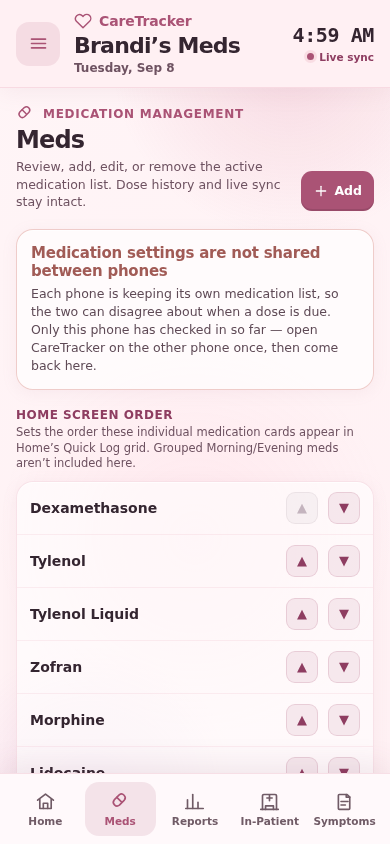
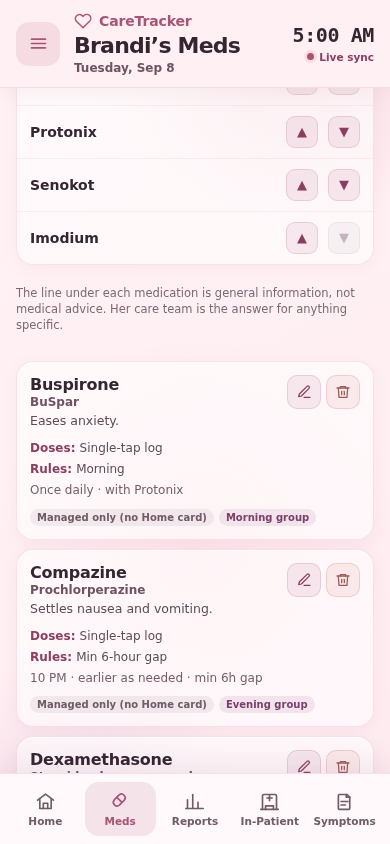
v74 release notes
Claude-Session: https://claude.ai/code/session_01YLK2mDPJLJLCZfexLETuMn

diff --git a/README.md b/README.md
@@ -499,6 +499,7 @@ changes every release is a copy that is wrong most of the time; read `sw.js` for
 
 ## Version History
 
+| v74 | Sep 8, 2026 | **Every medication now says what it is for.** Aaron, 2026-09-08: *"I've asked before to have something pulled from another site to say what the med is intended for... it wasn't webMD, it was something else that couldn't sue me for using their stuff."* **He was right that it never shipped, and the ask was not written down in ANY of the three repos** — not in care-tracker's records, not in ChemoWell's `REQUESTS.md` or `BACKLOG.md`, which have existed since app-v25. It was dropped, not deprioritised, and both apps' request files now carry it. **On the source, because that was his actual worry:** what cannot be copied is somebody's PROSE — the fact that ondansetron prevents nausea is not ownable. So this ships **short original sentences** written for a caregiver; nothing is copied from WebMD, from a drug label or from any site, and the app **cites nothing**, because a citation to a document nobody here read would be a lie. US federal sources (openFDA, DailyMed, MedlinePlus) are public domain and would have been safe to quote — every one of them is blocked by this sandbox's network policy, which is why the text is original rather than quoted, and a later refresh to exact federal wording is a data change into the same table rather than a rebuild. **`MED_PURPOSE` is keyed by medication id, NOT added to `DEFAULT_MEDS`** — every phone already has its medication list saved from before v74 and those records carry no new field, so a lookup by id gives every existing device the text on the next load with no migration and nothing to re-enter. `purposeOf()` prefers what the caregiver typed, falls back to the built-in line, and otherwise renders **nothing** rather than an empty label. **"What it's for" is a real field in the medication editor**, so anything added later carries its own line. **A defect caught before it existed in a build:** `medicationFormFrom()` seeds the editor and did not carry the new field, so opening any medication's editor and saving would have written an empty string over it — the v43.3 failure exactly, where correcting one field in this same editor silently disabled that medication's missed-dose alerts while the app said *updated*. The form is seeded with `purposeOf()`, so the box shows what the screen shows. **Deliberately not done:** nothing was added to the Home quick-log cards — that is the screen she taps at 2am, and every extra line there sits between her and the dose button; the suite ASSERTS Home stays clean rather than quietly skipping it. Nothing is fetched at runtime: a live lookup would send this patient's medication list to a third-party server from an app with no login, and would fail exactly when she is offline. **New gate `harness/med-purpose-test.mjs` 18/18, and 13/18 against v73.** Its central check is that **no line contains a number** — the app is now stating medical information and the one thing it must never drift into is a dose or a schedule — plus the edit-cannot-wipe case and the Home exemption. Two of its own selectors were wrong first time and the app was right: the field labels are uppercased by CSS so a case-sensitive match missed a field that was present, and the Meds screen's control reads **Add**, not *Add medication*. Reproducible from v73 + `harness/med-purpose-patch.py`. `APP_VERSION` → `v74`, CACHE → `caretracker-v74`. Rollback bundle for v73 in `outputs/rollback-v73/`. |
 | v73 | Sep 8, 2026 | **Removing a corrected weight or paracentesis no longer brings the wrong number back.** Both v72 auditors named this and neither could block on it, because it is older than v72 — it dates from v67/v69. **The defect:** Home's journal and History render raw documents, so on a CORRECTED reading the row standing there is the correction, and its Remove called `removeEntry(e.id)` — a hard delete of that one document. **Inside 48 hours the rules allow that delete, so it succeeded**, and the group fell back to the document it superseded: she removes a reading and the mistyped one returns, on the screen a clinician reads a trend off. Past 48 hours the same tap was refused and did nothing. Reproduced from the app's own bytes: `remove-group-test` seeds a 156.2 lb weigh-in corrected to 142.0 **today** — deliberately inside the window, because every other suite here seeds records past it, and the one window where a delete WORKS is the one where it does damage — removes the correction from History, and on v72 the Weight report comes back reading *156.2 lbs*. **Fixed** by routing weight and paracentesis rows to the tombstone functions the report screens already use (`removeWeightReading` / `removeParacentesis`, append-only since v69/v52), so both paths now mean the same thing; a group not in the resolved set (an unusable value the resolver skips) falls through to the old delete so the button can never become a silent no-op. `removeBtn` also hides on a superseded weight — v72 added `weightSuperseded` to History's chip but not to the button, leaving a Remove on a row nothing reads. **And a second defect the new suite found while proving the first, pre-existing since v52:** `removeParacentesis` stamped its tombstone with a bare `Date.now()` where the weight equivalent uses `Math.max(Date.now(), previous + 1)`. Whenever the record being removed carried a stamp at or ahead of this phone's clock — two caregiver phones minutes apart — **the tombstone lost the tie and the procedure stayed on screen while the toast said "Paracentesis removed"**. Same guard now. **`harness/remove-group-test.mjs` 20/20, and 10/20 against v72** — the ten reds are exactly the resurrection, the phantom Remove and the delete attempts. It also asserts the ORDINARY path still deletes a plain dose, because the way a narrow fix usually breaks something is by swallowing the normal case. **The Zero Day Audit BLOCKED the first build, on the verification rather than the code:** the new suite froze the app clock at 15:00 and derived the corrected paracentesis's stamp from it, so a build with the bare `Date.now()` stamp still in place **passed 20/20 after about noon** — the project's oldest failure class, a check that cannot fail, and the builder's own falsification against v72 could not have exposed it because on v72 that section fails for an unrelated reason. The seed now clears BOTH clocks (`Math.max(NOW, Date.now()) + 6h`), the tombstone's stamp is asserted directly rather than only through its effect on a screen, and the guard is proved hour-independent by running the reverted build at four shifted clocks: **19/21 red at +0h, +6h, +13h and +21h**, with v73 green at all four. The weight stamp guard, unfalsified until the audit said so, is red the same way (20/21). **Copy, from the auditor's Voice pass:** the note promised removal *"always takes effect now"* — untrue offline — and did not prepare her for History keeping the row; both corrected. **A second audit pass then found the rewrite had lost a word the first draft had right:** *"Remove also works on older readings"* is true of a weight, which bypasses the 48-hour hide, and **false of a paracentesis, which does not** — the button is not there to fail. Corrected to *"older weights"*, and *"the number you had fixed"* — ambiguous, since what came back was the number she REPLACED — to *"the wrong number you had replaced"*. That pass also re-proved the seed repair at nine clock shifts including two crossing midnight backwards (shipped 21/21 at every one; para mutant 19/21 at every one; weight mutant 20/21), and confirmed by grep that `loggedAt` is only ever an ordering key in this app, never a date — so a correction stamped six hours ahead cannot land on the wrong day and quietly change what the other checks mean. Reproducible from v72 + `harness/remove-tombstone-patch.py`. `APP_VERSION` → `v73`, CACHE → `caretracker-v73`. Rollback bundle for v72 in `outputs/rollback-v72/`. |
 | v72 | Sep 7, 2026 | **A changed answer now stays changed — bowel, appetite and symptom corrections append instead of delete.** Aaron, 2026-09-07: *"do all"* — v72 first on the standing queue, from Enhancer pass 03. **The defect, the fifth instance of the one root cause:** `submitBowelMovement`, the Bowel Issue Active banner's Update, `submitAppetite` and the symptom edit all did `removeEntryDB` **then** append. The Firestore rules refuse a delete by document age, the banner targets whichever day drives the streak — routinely three days old — and the Symptoms tab offers Edit at any age. So on the phone the update **failed with a toast blaming her connection** and the old answer stayed; and wherever two documents for one day did exist (two devices answering the same evening), both carried that day's noon as `ts` and the reader broke the tie with `>=`, so the winner was whichever Firestore returned last. `removeSymptom()` was dead code; the tab's Remove went through History's generic delete, refused past 48h with the button still on screen. **Fixed on the model this app already ships four times over** (paracentesis v52, appointments, weight v69, cycle v70): a bowel or appetite answer is grouped by **day**, a symptom by `symptomId` falling back to its document id; the newest `loggedAt || ts` wins, ties keep the later document exactly as v71 did, `cancelled: true` is a tombstone, and every write is stamped `Math.max(Date.now(), stamp(previous) + 1)` so a clock-skewed phone cannot make the old answer keep winning. **Every legacy document has no `loggedAt` and is untouched until corrected.** The Remove button routes these three types to their tombstones (`removeEntryFor`) and hides on a row that no longer stands; a delete of the newest document of a corrected group would otherwise resurrect the one it replaced. **Rows raw, numbers resolved** (v69's lesson): History and the CSV keep every document, marked *Superseded* or *Removed*; the printable oncologist report's symptom table reads the resolved set; and the History day summary **no longer counts a bowel answer, an appetite answer or a symptom note as a dose** — it did. **The Zero Day Audit BLOCKED the first build** — Home's Today journal still listed raw documents, so after removing today's answer she would have seen the end-of-day card asking again beside the old answer, unlabelled and with no Remove, plus the tombstone; v71 deleted those within 48 hours, so on the screen she uses most it was a visible regression. Fixed by reading the journal resolved, the same line as History's count (`harness/audit-v72-probe.mjs`, the auditor's own probe: 16/19 on the blocked build, 19/19 after; it runs in `run-all.sh` from now on). **The delta audit BLOCKED once more, narrower:** the journal fix hid a paracentesis tombstone while nothing hid the procedure it removed, so a paracentesis removed today read as standing on Home — a `paraSuperseded` helper, mirrored from the weight one and missing since v52, now hides it in the journal, the Remove button, History's chip and the CSV label; the auditor's probe 27/28 → 28/28. **`pm.py` gained the delete ratchet:** every shape of `removeEntryDB(...)` call is pinned; a new one blocks the release; the four correction shapes v72 retired are gone from the list, so it now sits at zero. Falsified three ways before v72 was built. **New gate `harness/daily-supersede-test.mjs` 37/37** — the stub refuses deletes past 48h as the rules do and records every attempt; **9/37 on v71**, **32/37 on a mutant whose stamp guard is a bare `Date.now()`** (the future-stamped seed is what makes that mutant fail). **The scanner had never opened History, Bowel Movement or Appetite** — exactly the three screens this release changes — because they had no per-row hooks; they have them now and it walks all three: `overflow-scan` **140/140 CLEAN**. **`harness/run-all.sh`** runs every suite and writes `outputs/SUITES-v72.md` (29 suites PASS including the auditor's probe, 4 v43/v44-era patch verifiers EXEMPT with written reasons, 0 failing); `pm.py` blocks a release whose index.html changed without that record or with a FAIL/ERROR row not marked EXEMPT with a written reason. Enhancer pass 04 (`outputs/ENHANCER-PASS-04.md`) corrected pass 03 — both report screens DO carry a per-row Remove, which now tombstones — and proposes Change-answer and Log-for-another-day on both reports (S each) and routing History's Remove on corrected weight and period rows to their tombstones (S). **Exempt, said out loud:** legacy same-day duplicates written before v72 still tie as they did; iPhone rendering cannot be reproduced here (Chromium only). Reproducible from v71 + `harness/daily-supersede-patch.py`. `APP_VERSION` → `v72`, CACHE → `caretracker-v72`. Rollback bundle for v71 in `outputs/rollback-v71/`. |
 | v71 | Sep 7, 2026 | **The page no longer scrolls around behind an open menu or pop-up.** Aaron: *"when there is a toast pop up or with the 3 elipsies, you can still scroll and see the background moving when trying to scroll. why haven't this been caught."* **Five full-screen overlays** — the menu drawer, the date/time dialog, the What's New notice, the appointment sheet, the missed-dose reason sheet — **and not one of them held the page still.** Measured before and after on the same seed and the same drag: v70 went from a scroll offset of 600 to **1300** with the menu open; v71 does not move. Four of those five sit on a blurred scrim, so what a caregiver actually sees is the smear behind the blur sliding, which reads as the app coming apart. **The fix is `position: fixed` on the body at its current offset, not `overflow: hidden`** — on iOS Safari `overflow: hidden` does not stop a touch drag, which is precisely the bug. **The scroll position is restored on close**, because a lock that forgets it drops her at the top of a long History screen — a worse bug than the one being fixed. **The toast is deliberately exempt and asserted to be so:** it is not a modal, it says "logged at 6:04 PM" and goes away, and freezing the page after every dose would be its own defect. The tour is exempt too — it needs the page to move. **Why nothing caught it, which is worth more than the fix:** every gate this project has asks a question about a **still frame** — does the screen fit, is the copy true, can she do the job, does the record survive, did the release mechanics happen. **Scrolling is not a still frame.** There was no case because nobody had written one. `harness/scrolllock-test.mjs` is that case, one per overlay, and it carries a **completeness check that fails if a sixth overlay is added without a lock** — the specific bug is fixed either way, the class is what keeps coming back. New `CLAUDE.md` **Rule 5.5**: a release that changes anything a finger touches ships a case for the interaction, not only for the rendered result, written for the whole class rather than the one instance reported. **One regression, and it was the suite's fault:** `para-test` fell to 15/16 because it found the dialog's Confirm button by asking for the nearest ancestor with `position: fixed` in its style attribute — which the body lock made the whole document, so it clicked the Home card's *Log* button instead. The app was right; the selector never was. The dialog now carries `data-time-modal`, and the suite passes 16/16 against **both** v70 and v71, so it is not pinned to a release. Gates: `scrolllock-test` **23/23** (red against v70, including the drag itself at `400 -> 1000`), `enhance-test` 37/37, `overflow-scan` 110/110 CLEAN, `export` 49/49, `para` 16/16, `cycle-merge-probe` 24/24, `weightreport` 11/11, `whatsnew` 30/30, `takeall` 29/29, `glass` 7/7, `repaint` 17/17 (`outputs/RENDER-v71.md`). Reproducible from v70 + `harness/scrolllock-patch.py`. `APP_VERSION` → `v71`, CACHE → `caretracker-v71`. |

diff --git a/CARETRACKER_HANDOFF.md b/CARETRACKER_HANDOFF.md
@@ -9,8 +9,8 @@
 > **Purpose:** Complete context for any AI assistant to understand, maintain, and extend the CareTracker project without prior knowledge.
 >
 > **Last updated:** September 7, 2026
-> **Current version:** v73 (removing a corrected weight or paracentesis clears it instead of restoring the
-> old number; a changed bowel, appetite or symptom answer stays changed — corrections append,
+> **Current version:** v74 (every medication says what it is for; removing a corrected weight or paracentesis
+> clears it instead of restoring the old number; a changed bowel, appetite or symptom answer stays changed — corrections append,
 > never delete; the page holds still behind an open menu or pop-up; move a period's
 > start or end at any age, guarded so a move cannot
 > swallow another period; correct or remove a weight from the Weight report — by appending a
@@ -297,6 +297,7 @@ If a device shows a blank screen or stale content:
 
 | Version | Date | Commit | Changes |
 |---|---|---|---|
+| v74 | Sep 8, 2026 | **Every medication now says what it is for.** Aaron, 2026-09-08: *"I've asked before to have something pulled from another site to say what the med is intended for... it wasn't webMD, it was something else that couldn't sue me for using their stuff."* **He was right that it never shipped, and the ask was not written down in ANY of the three repos** — not in care-tracker's records, not in ChemoWell's `REQUESTS.md` or `BACKLOG.md`, which have existed since app-v25. It was dropped, not deprioritised, and both apps' request files now carry it. **On the source, because that was his actual worry:** what cannot be copied is somebody's PROSE — the fact that ondansetron prevents nausea is not ownable. So this ships **short original sentences** written for a caregiver; nothing is copied from WebMD, from a drug label or from any site, and the app **cites nothing**, because a citation to a document nobody here read would be a lie. US federal sources (openFDA, DailyMed, MedlinePlus) are public domain and would have been safe to quote — every one of them is blocked by this sandbox's network policy, which is why the text is original rather than quoted, and a later refresh to exact federal wording is a data change into the same table rather than a rebuild. **`MED_PURPOSE` is keyed by medication id, NOT added to `DEFAULT_MEDS`** — every phone already has its medication list saved from before v74 and those records carry no new field, so a lookup by id gives every existing device the text on the next load with no migration and nothing to re-enter. `purposeOf()` prefers what the caregiver typed, falls back to the built-in line, and otherwise renders **nothing** rather than an empty label. **"What it's for" is a real field in the medication editor**, so anything added later carries its own line. **A defect caught before it existed in a build:** `medicationFormFrom()` seeds the editor and did not carry the new field, so opening any medication's editor and saving would have written an empty string over it — the v43.3 failure exactly, where correcting one field in this same editor silently disabled that medication's missed-dose alerts while the app said *updated*. The form is seeded with `purposeOf()`, so the box shows what the screen shows. **Deliberately not done:** nothing was added to the Home quick-log cards — that is the screen she taps at 2am, and every extra line there sits between her and the dose button; the suite ASSERTS Home stays clean rather than quietly skipping it. Nothing is fetched at runtime: a live lookup would send this patient's medication list to a third-party server from an app with no login, and would fail exactly when she is offline. **New gate `harness/med-purpose-test.mjs` 18/18, and 13/18 against v73.** Its central check is that **no line contains a number** — the app is now stating medical information and the one thing it must never drift into is a dose or a schedule — plus the edit-cannot-wipe case and the Home exemption. Two of its own selectors were wrong first time and the app was right: the field labels are uppercased by CSS so a case-sensitive match missed a field that was present, and the Meds screen's control reads **Add**, not *Add medication*. Reproducible from v73 + `harness/med-purpose-patch.py`. `APP_VERSION` → `v74`, CACHE → `caretracker-v74`. Rollback bundle for v73 in `outputs/rollback-v73/`. |
 | v73 | Sep 8, 2026 | **Removing a corrected weight or paracentesis no longer brings the wrong number back.** Both v72 auditors named this and neither could block on it, because it is older than v72 — it dates from v67/v69. **The defect:** Home's journal and History render raw documents, so on a CORRECTED reading the row standing there is the correction, and its Remove called `removeEntry(e.id)` — a hard delete of that one document. **Inside 48 hours the rules allow that delete, so it succeeded**, and the group fell back to the document it superseded: she removes a reading and the mistyped one returns, on the screen a clinician reads a trend off. Past 48 hours the same tap was refused and did nothing. Reproduced from the app's own bytes: `remove-group-test` seeds a 156.2 lb weigh-in corrected to 142.0 **today** — deliberately inside the window, because every other suite here seeds records past it, and the one window where a delete WORKS is the one where it does damage — removes the correction from History, and on v72 the Weight report comes back reading *156.2 lbs*. **Fixed** by routing weight and paracentesis rows to the tombstone functions the report screens already use (`removeWeightReading` / `removeParacentesis`, append-only since v69/v52), so both paths now mean the same thing; a group not in the resolved set (an unusable value the resolver skips) falls through to the old delete so the button can never become a silent no-op. `removeBtn` also hides on a superseded weight — v72 added `weightSuperseded` to History's chip but not to the button, leaving a Remove on a row nothing reads. **And a second defect the new suite found while proving the first, pre-existing since v52:** `removeParacentesis` stamped its tombstone with a bare `Date.now()` where the weight equivalent uses `Math.max(Date.now(), previous + 1)`. Whenever the record being removed carried a stamp at or ahead of this phone's clock — two caregiver phones minutes apart — **the tombstone lost the tie and the procedure stayed on screen while the toast said "Paracentesis removed"**. Same guard now. **`harness/remove-group-test.mjs` 20/20, and 10/20 against v72** — the ten reds are exactly the resurrection, the phantom Remove and the delete attempts. It also asserts the ORDINARY path still deletes a plain dose, because the way a narrow fix usually breaks something is by swallowing the normal case. **The Zero Day Audit BLOCKED the first build, on the verification rather than the code:** the new suite froze the app clock at 15:00 and derived the corrected paracentesis's stamp from it, so a build with the bare `Date.now()` stamp still in place **passed 20/20 after about noon** — the project's oldest failure class, a check that cannot fail, and the builder's own falsification against v72 could not have exposed it because on v72 that section fails for an unrelated reason. The seed now clears BOTH clocks (`Math.max(NOW, Date.now()) + 6h`), the tombstone's stamp is asserted directly rather than only through its effect on a screen, and the guard is proved hour-independent by running the reverted build at four shifted clocks: **19/21 red at +0h, +6h, +13h and +21h**, with v73 green at all four. The weight stamp guard, unfalsified until the audit said so, is red the same way (20/21). **Copy, from the auditor's Voice pass:** the note promised removal *"always takes effect now"* — untrue offline — and did not prepare her for History keeping the row; both corrected. **A second audit pass then found the rewrite had lost a word the first draft had right:** *"Remove also works on older readings"* is true of a weight, which bypasses the 48-hour hide, and **false of a paracentesis, which does not** — the button is not there to fail. Corrected to *"older weights"*, and *"the number you had fixed"* — ambiguous, since what came back was the number she REPLACED — to *"the wrong number you had replaced"*. That pass also re-proved the seed repair at nine clock shifts including two crossing midnight backwards (shipped 21/21 at every one; para mutant 19/21 at every one; weight mutant 20/21), and confirmed by grep that `loggedAt` is only ever an ordering key in this app, never a date — so a correction stamped six hours ahead cannot land on the wrong day and quietly change what the other checks mean. Reproducible from v72 + `harness/remove-tombstone-patch.py`. `APP_VERSION` → `v73`, CACHE → `caretracker-v73`. Rollback bundle for v72 in `outputs/rollback-v72/`. |
 | v72 | Sep 7, 2026 | **A changed answer now stays changed — bowel, appetite and symptom corrections append instead of delete.** Aaron, 2026-09-07: *"do all"* — v72 first on the standing queue, from Enhancer pass 03. **The defect, the fifth instance of the one root cause:** `submitBowelMovement`, the Bowel Issue Active banner's Update, `submitAppetite` and the symptom edit all did `removeEntryDB` **then** append. The Firestore rules refuse a delete by document age, the banner targets whichever day drives the streak — routinely three days old — and the Symptoms tab offers Edit at any age. So on the phone the update **failed with a toast blaming her connection** and the old answer stayed; and wherever two documents for one day did exist (two devices answering the same evening), both carried that day's noon as `ts` and the reader broke the tie with `>=`, so the winner was whichever Firestore returned last. `removeSymptom()` was dead code; the tab's Remove went through History's generic delete, refused past 48h with the button still on screen. **Fixed on the model this app already ships four times over** (paracentesis v52, appointments, weight v69, cycle v70): a bowel or appetite answer is grouped by **day**, a symptom by `symptomId` falling back to its document id; the newest `loggedAt || ts` wins, ties keep the later document exactly as v71 did, `cancelled: true` is a tombstone, and every write is stamped `Math.max(Date.now(), stamp(previous) + 1)` so a clock-skewed phone cannot make the old answer keep winning. **Every legacy document has no `loggedAt` and is untouched until corrected.** The Remove button routes these three types to their tombstones (`removeEntryFor`) and hides on a row that no longer stands; a delete of the newest document of a corrected group would otherwise resurrect the one it replaced. **Rows raw, numbers resolved** (v69's lesson): History and the CSV keep every document, marked *Superseded* or *Removed*; the printable oncologist report's symptom table reads the resolved set; and the History day summary **no longer counts a bowel answer, an appetite answer or a symptom note as a dose** — it did. **The Zero Day Audit BLOCKED the first build** — Home's Today journal still listed raw documents, so after removing today's answer she would have seen the end-of-day card asking again beside the old answer, unlabelled and with no Remove, plus the tombstone; v71 deleted those within 48 hours, so on the screen she uses most it was a visible regression. Fixed by reading the journal resolved, the same line as History's count (`harness/audit-v72-probe.mjs`, the auditor's own probe: 16/19 on the blocked build, 19/19 after; it runs in `run-all.sh` from now on). **The delta audit BLOCKED once more, narrower:** the journal fix hid a paracentesis tombstone while nothing hid the procedure it removed, so a paracentesis removed today read as standing on Home — a `paraSuperseded` helper, mirrored from the weight one and missing since v52, now hides it in the journal, the Remove button, History's chip and the CSV label; the auditor's probe 27/28 → 28/28. **`pm.py` gained the delete ratchet:** every shape of `removeEntryDB(...)` call is pinned; a new one blocks the release; the four correction shapes v72 retired are gone from the list, so it now sits at zero. Falsified three ways before v72 was built. **New gate `harness/daily-supersede-test.mjs` 37/37** — the stub refuses deletes past 48h as the rules do and records every attempt; **9/37 on v71**, **32/37 on a mutant whose stamp guard is a bare `Date.now()`** (the future-stamped seed is what makes that mutant fail). **The scanner had never opened History, Bowel Movement or Appetite** — exactly the three screens this release changes — because they had no per-row hooks; they have them now and it walks all three: `overflow-scan` **140/140 CLEAN**. **`harness/run-all.sh`** runs every suite and writes `outputs/SUITES-v72.md` (29 suites PASS including the auditor's probe, 4 v43/v44-era patch verifiers EXEMPT with written reasons, 0 failing); `pm.py` blocks a release whose index.html changed without that record or with a FAIL/ERROR row not marked EXEMPT with a written reason. Enhancer pass 04 (`outputs/ENHANCER-PASS-04.md`) corrected pass 03 — both report screens DO carry a per-row Remove, which now tombstones — and proposes Change-answer and Log-for-another-day on both reports (S each) and routing History's Remove on corrected weight and period rows to their tombstones (S). **Exempt, said out loud:** legacy same-day duplicates written before v72 still tie as they did; iPhone rendering cannot be reproduced here (Chromium only). Reproducible from v71 + `harness/daily-supersede-patch.py`. `APP_VERSION` → `v72`, CACHE → `caretracker-v72`. Rollback bundle for v71 in `outputs/rollback-v71/`. |
 | v43.3 | Aug 16, 2026 | v43.2 | **Three defects fixed that were live on the patient's phone, all one root cause in the renderer.** `h()` routed `value` through `setAttribute`, which sets the DEFAULT value rather than the current one. On a `<textarea>` it is ignored entirely; on a `<select>` it does nothing at all, because selection is carried by `<option selected>`; on an `<input>` it goes stale as soon as the value is edited. `h()` now sets **both** the attribute and, deferred until after children exist (a `<select>` has no options to choose from at attribute time), the **property** — which is what actually holds a current value. Belt-and-braces: nothing relying on the HTML default changes. **What this fixes, all reported by the patient-facing screens rather than by a unit test:** the Home **appetite** card silently reset its dropdown and wiped its reason box about a second after being filled in; the **symptom logger** snapped its dropdown back to blank when a symptom was chosen, wiped any note typed beforehand, and showed an existing symptom's note as empty; and the **medication editor displayed the wrong schedule type** — Protonix shown as *As needed / gap-based* when it is a *Scheduled window* medication. That last one is the serious one: anyone who saw the wrong value and 'corrected' it would have converted a scheduled medication to as-needed and **silently switched off its missed-dose alerts**. In all three the underlying data was intact and saving worked correctly — the screen was contradicting what had just been entered, which for a patient in active chemotherapy reads as the app losing her entry and invites her to enter it twice. Proved by `harness/live-bugs.mjs`, which runs every check against this build **and against the currently-live build**, so each fix is demonstrated as a measured difference rather than asserted: **12 checks, all passing**, including that the live build genuinely fails each one. `sw.js` cache bumped `caretracker-v43-2` -> `caretracker-v43-3`. No change to the medication engine, the entry schema, Firestore, or any screen's behaviour beyond showing the truth. |
